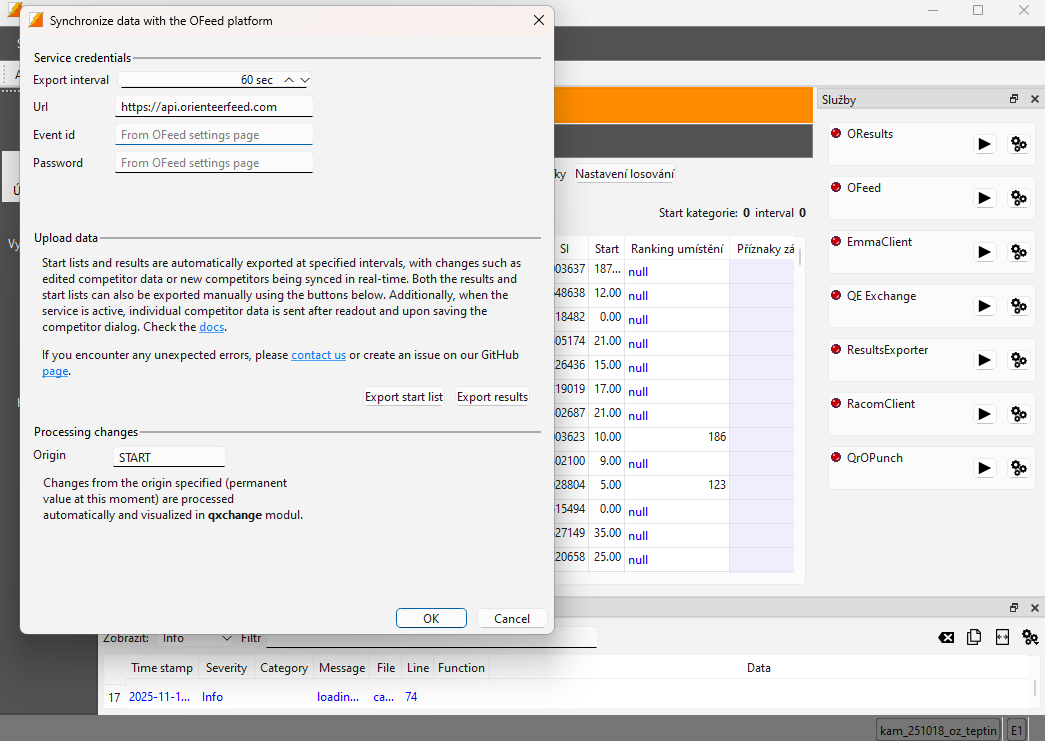
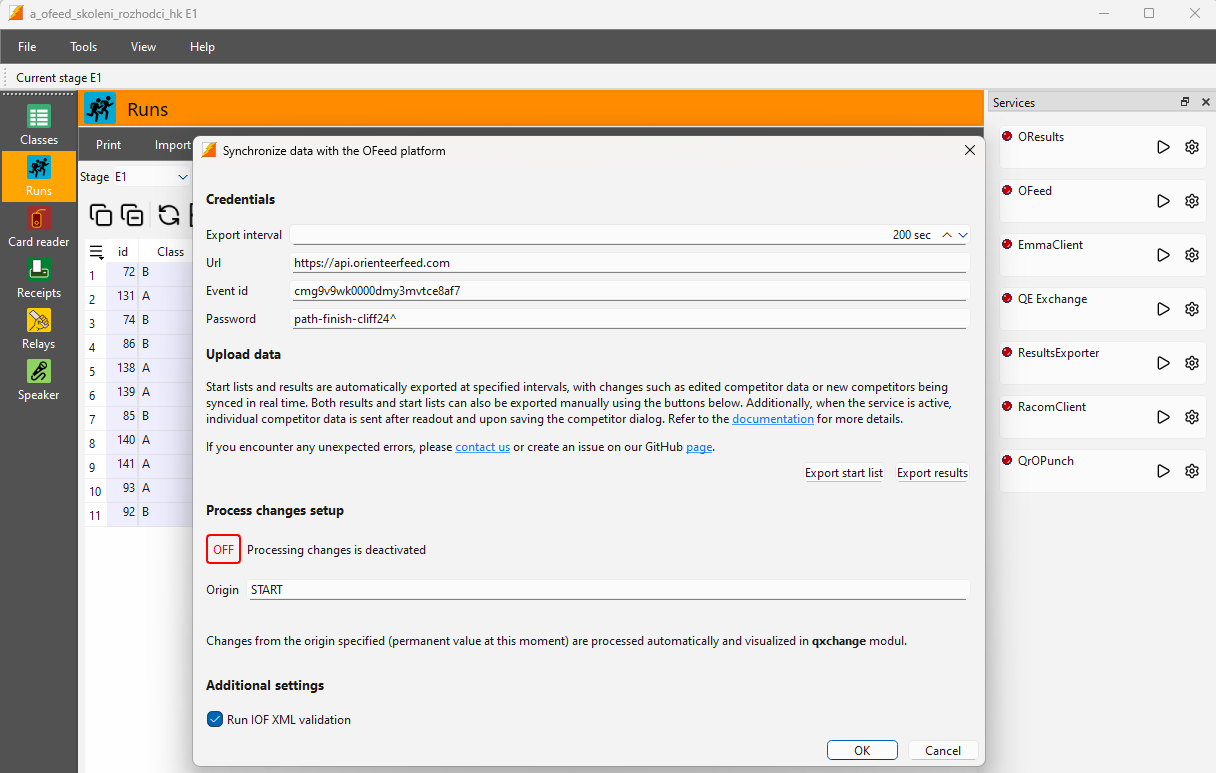
Update QE service image

diff --git a/docs/tutorials/upload-data.md b/docs/tutorials/upload-data.md
@@ -11,7 +11,7 @@ You can use either the manual method or the API for uploading. The manual method
 In the event `Settings` (you need to be logged in), you can drag and drop XML files containing the start list or results.
 ![Drag and drop](/img/tutorials/client/upload-data-manual-dd.png)
 
-## QE Service
+## QuickEvent Service
 
 ### Upload Setup
 

diff --git a/i18n/cs/docusaurus-plugin-content-docs/current/tutorials/visualize-changes.md b/i18n/cs/docusaurus-plugin-content-docs/current/tutorials/visualize-changes.md
@@ -5,3 +5,5 @@ sidebar_position: 6
 # Vizualizace změn
 
 Reportovací tabulka s filty umožňuje prohlížení a sledování změn v realném čase. Jde využít jako zdroj pro ruční zapracování změn do pořádacího software.
+
+TODO

diff --git a/docs/tutorials/visualize-changes.md b/docs/tutorials/visualize-changes.md
@@ -5,3 +5,5 @@ sidebar_position: 6
 # Visualize Changes
 
 The table report with filters enables checking and tracking changes in real-time. Can be used for manual processing into organising software.
+
+TODO
